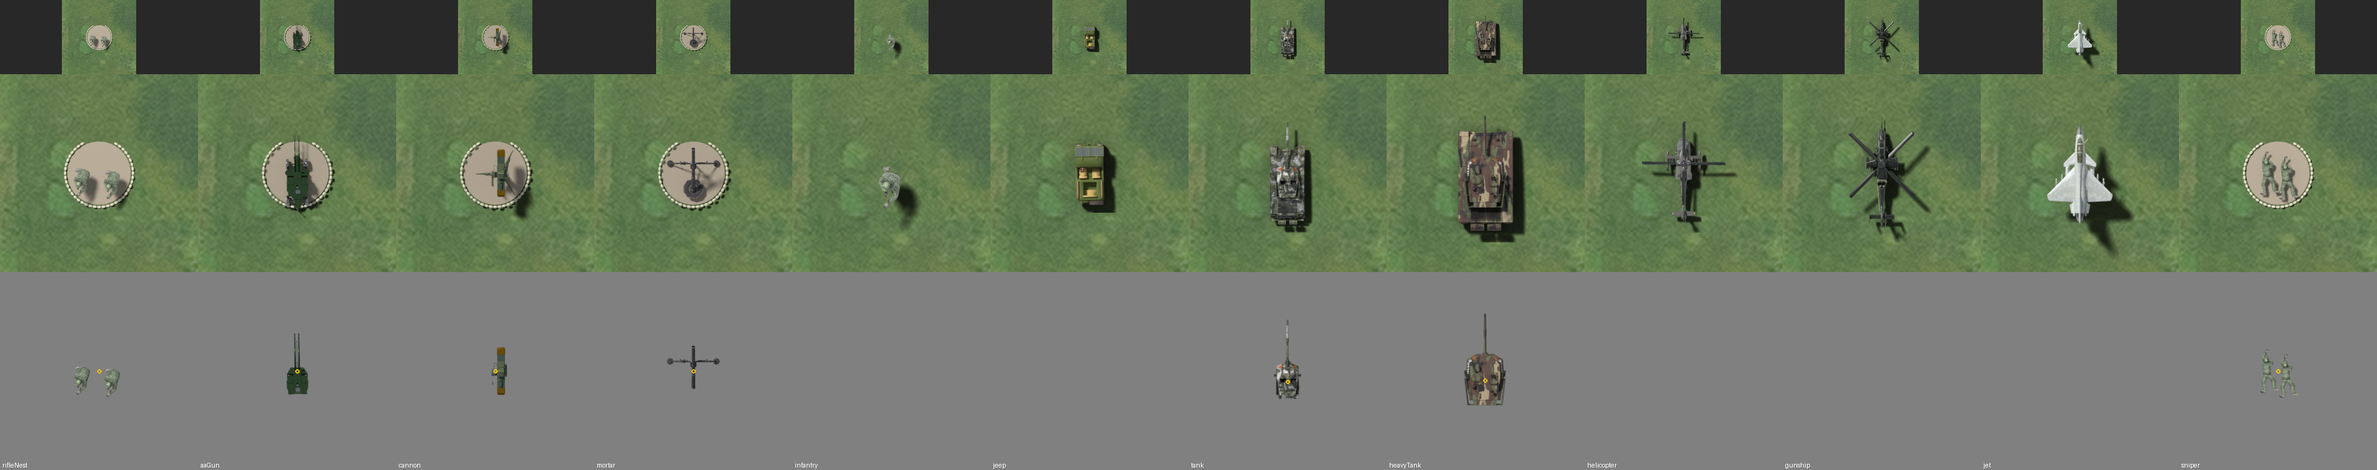
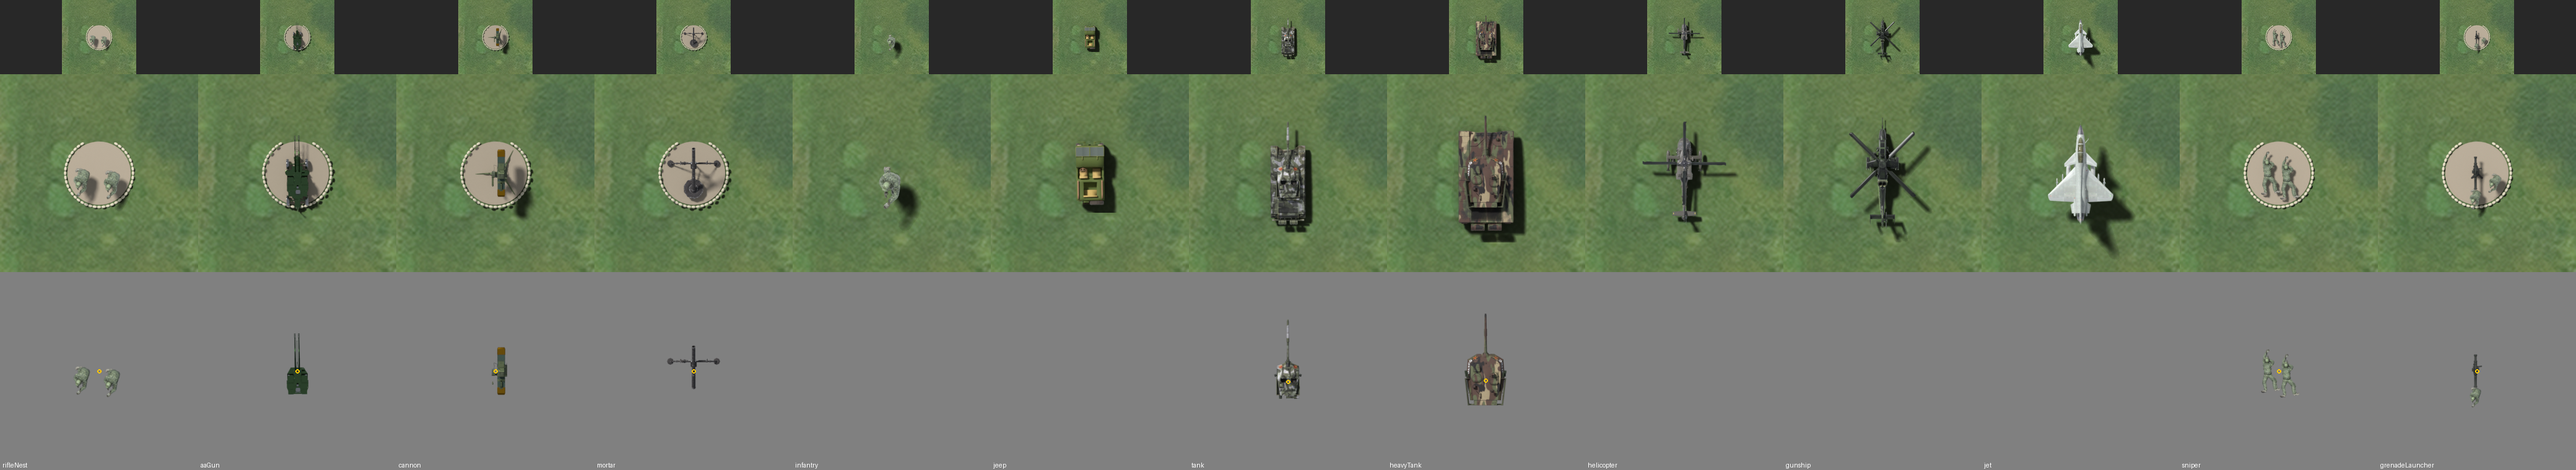
feat: China Grenade launcher render (#468) (#529)
Closes #468

Stacked on the #467 PR (base `feat/467-grenade-launcher-russia`).

## What changed
- **China Grenade launcher render** (`china-grenade-launcher`, art-ahead for #359). It uses the QLZ-87 itself ("QLZ-87 (Type 87)" by goncalveskauan055l, CC-BY 4.0, license checked on its Sketchfab page 2026-11-11), so there's no stand-in for the launcher. The model has no mount, so it sits on the US render's stand-in tripod (GoldbergR, CC-BY). The crew is the China Rifle Nest's soldier in green (MissingTray1151, CC-BY): the gunner on the turret layer with the launcher, the assistant on the hull. They're in the sandbagged pit (base radius 0.4, canvas 1.25 tiles, ADR-0009 point 2).
- **New `opaque` key in `scripts/render-sprite.py`.** This Sketchfab export has alpha 0 on every material (the author notes a "bugged 3d view"), so it rendered see-through. `opaque: true` sets alpha to 1 on that model's (or part's) materials. The launcher is then painted flat dark grey with low specular through `tint.overrides` (`flat`). No other model uses the key, so no existing render changes.
- **Turntable**: `china-grenade-launcher-turntable.webp`, 274 KB, within the 300 KB budget, for the Field manual.
[…]

diff --git a/src/data/renders.test.ts b/src/data/renders.test.ts
@@ -4,6 +4,7 @@ import { describe, expect, it } from 'vitest';
 import { RENDERS, RENDER_FACING, renderFor } from './renders';
 import { FACTIONS } from '../sim/factions';
 import { SPRITES, type SpriteKind } from './sprites';
+import { TURNTABLE_BUDGET_BYTES } from './turntables';
 
 describe('RENDERS', () => {
   it('has the spike’s two renders: the China AA Gun and the Russia Tank', () => {
@@ -94,8 +95,8 @@ describe('the committed Sniper renders (art-ahead: not in RENDERS until #364 put
 });
 
 describe('the committed Grenade launcher renders (art-ahead: not in RENDERS until #359 puts it in play)', () => {
-  // The Factions whose Grenade launcher is rendered so far: US (#464), Russia (#467). Later parts of #359 add theirs.
-  for (const faction of ['us', 'russia']) {
+  // The Factions whose Grenade launcher is rendered so far: US (#464), Russia (#467), China (#468). The last part of #359 adds its own.
+  for (const faction of ['us', 'russia', 'china']) {
     const id = `${faction}-grenade-launcher`;
     const dir = `assets/render-${id}`;
 
@@ -118,6 +119,13 @@ describe('the committed Grenade launcher renders (art-ahead: not in RENDERS unti
         expect([png.width, png.height]).toEqual([160, 160]);
       });
     }
+
+    it(`${id} has a turntable for the Field manual, within the 300 KB budget`, () => {
+      const path = `${dir}/${id}-turntable.webp`;
+      expect(existsSync(path), path).toBe(true);
+      expect(readFileSync(path).length).toBeLessThanOrEqual(TURNTABLE_BUDGET_BYTES);
+      expect(JSON.parse(readFileSync(`${dir}/${id}-turntable.json`, 'utf8'))).toMatchObject({ id, frames: 24 });
+    });
 
     it(`keeps ${id} out of RENDERS until it is in play`, () => {
       expect(Object.values(RENDERS).map((r) => r.id)).not.toContain(id);

diff --git a/scripts/render-sprite.py b/scripts/render-sprite.py
@@ -44,6 +44,8 @@ on a palette texture.
 (sky occlusion), so a sprite has no baked haze and its frame can be cropped to the figure. It applies to every model:
 only the soldier sets were re-rendered for #342, so re-rendering a vehicle or tower changes its alpha the same way.
 
+`opaque` (true) sets every material of a model to alpha 1, for one exported fully transparent (alpha 0).
+
 `turnDeg` turns a model clockwise after `frontAxis`, for one set down at an angle (not along an axis).
 
 `liftTiles` raises the placed model that far above the ground, so its shadow falls off to the south-east, away from
@@ -58,7 +60,7 @@ of `radiusTiles` ringed by sandbags, open at the front when `gapDeg` is set, so 
 `parts` (issue #464) builds one sprite from several models, e.g. a launcher with no mount, a tripod and a crew: each
 entry is another Sketchfab model (`sketchfab`, `author`, `license`, credited like the main one) imported into the same
 scene and placed on its own, with the same `frontAxis`, `turnDeg`, `lengthTiles`, `liftTiles`, `exclude`, `tint`,
-`untexturedColor`, `pose` and `copies` keys (copies also take `z`). A part with `"turret": true` goes on the turret
+`untexturedColor`, `opaque`, `pose` and `copies` keys (copies also take `z`). A part with `"turret": true` goes on the turret
 layer (the gunner), the others on the hull. `liftTiles` stands a model (main or part) that many tiles up, e.g. a
 launcher on its tripod's head.
 
@@ -147,6 +149,15 @@ def tint_untextured(color: list[float], mats=None) -> None:
         bsdf = mat.node_tree.nodes.get("Principled BSDF") if mat.node_tree else None
         if bsdf and not bsdf.inputs["Base Color"].links:
             bsdf.inputs["Base Color"].default_value = (*color, 1.0)
+
+
+def make_opaque(mats=None) -> None:
+    """Set every material's alpha to 1, for a model exported with alpha 0 (it renders see-through, as on its
+    Sketchfab page)."""
+    for mat in bpy.data.materials if mats is None else mats:
+        bsdf = mat.node_tree.nodes.get("Principled BSDF") if mat.node_tree else None
+        if bsdf and not bsdf.inputs["Alpha"].links:
+            bsdf.inputs["Alpha"].default_value = 1.0
 
 
 def tint_paint(color: list[float], skip: list[str], overrides: dict[str, dict], mats=None) -> None:
@@ -374,6 +385,8 @@ def add_part(part: dict, cache: Path) -> list:
         tint_paint(t["color"], t.get("skip", []), t.get("overrides", {}), mats)
     if "untexturedColor" in part:
         tint_untextured(part["untexturedColor"], mats)
+    if part.get("opaque"):
+        make_opaque(mats)
     if "pose" in part:
         apply_pose(part["pose"], objs, actions)
     place_model(part, objs)
@@ -522,6 +535,8 @@ def prepare_model(spec: dict, cache: Path) -> tuple[list, list, list]:
         tint_paint(spec["tint"]["color"], spec["tint"].get("skip", []), spec["tint"].get("overrides", {}))
     if "untexturedColor" in spec:
         tint_untextured(spec["untexturedColor"])
+    if spec.get("opaque"):
+        make_opaque()
     if "pose" in spec:
         apply_pose(spec["pose"])
     place_model(spec)

diff --git a/CREDITS.md b/CREDITS.md
@@ -169,9 +169,9 @@ Third-party assets in this game. Generated from `assets/manifest.json` by `npm r
 - Author: GoldbergR
 - Source: <https://sketchfab.com/3d-models/2a5ecc14900440af8fe2b5b30dabbef0>
 - License: CC-BY-4.0
-- Attribution: "Machine Gun Tripod 1 (Low-Poly)" by GoldbergR (sketchfab.com), CC-BY 4.0, rendered top-down under the Grenade launcher (a stand-in for the M3 tripod)
+- Attribution: "Machine Gun Tripod 1 (Low-Poly)" by GoldbergR (sketchfab.com), CC-BY 4.0, rendered top-down under the Grenade launcher (US: a stand-in for the M3 tripod; China: for the QLZ-87's own heavy mount), and in those renders' turntables (24 views from 30 degrees up) for the Field manual
 - Downloaded: 2026-11-11
-- Files: `assets/render-us-grenade-launcher/**`
+- Files: `assets/render-us-grenade-launcher/**`, `assets/render-china-grenade-launcher/**`
 
 ## Low Poly Humvee FREE (top-down render and turntable)
 
@@ -295,9 +295,9 @@ Third-party assets in this game. Generated from `assets/manifest.json` by `npm r
 - Author: MissingTray1151
 - Source: <https://sketchfab.com/3d-models/2bfce585144d4403a3ddf76a0e65767a>
 - License: CC-BY-4.0
-- Attribution: "Tactical Soldier (game ready) low poly" by MissingTray1151 (sketchfab.com), CC-BY 4.0, rendered top-down, posed crouching and aiming (its crouch_firing animation), kit tinted green (toward Type 07), two copies set in a sandbagged pit of our own, plus a turntable of the whole model (24 views from 30 degrees up) for the Field manual
+- Attribution: "Tactical Soldier (game ready) low poly" by MissingTray1151 (sketchfab.com), CC-BY 4.0, rendered top-down, posed crouching and aiming (its crouch_firing animation), kit tinted green (toward Type 07), two copies set in a sandbagged pit of our own, plus a turntable of the whole model (24 views from 30 degrees up) for the Field manual; also the Grenade launcher's gunner and assistant gunner, crouched beside it, also in its turntable
 - Downloaded: 2026-11-02
-- Files: `assets/render-china-rifle-nest/**`
+- Files: `assets/render-china-rifle-nest/**`, `assets/render-china-grenade-launcher/**`
 
 ## Tactical Soldier (game ready) low poly (top-down render and turntable)
 
@@ -325,6 +325,15 @@ Third-party assets in this game. Generated from `assets/manifest.json` by `npm r
 - Attribution: "Pindad Mortars" by sakigakefuruzawa (sketchfab.com), CC-BY 4.0, rendered top-down, the 81 mm MO-3 alone (the two 60 mm mortars removed), set in a sandbagged pit of our own, tube and bipod split from the baseplate, plus a turntable of the whole model (24 views from 30 degrees up) for the Field manual
 - Downloaded: 2026-11-02
 - Files: `assets/render-china-mortar/**`
+
+## QLZ-87 (Type 87) (top-down render and turntable)
+
+- Author: goncalveskauan055l
+- Source: <https://sketchfab.com/3d-models/56a2e9531c5a432f8e833bfd62c6a7ea>
+- License: CC-BY-4.0
+- Attribution: "QLZ-87 (Type 87)" by goncalveskauan055l (sketchfab.com), CC-BY 4.0, rendered top-down on a tripod with a crew, in a sandbagged pit of our own, its see-through export made opaque and painted dark grey, plus a turntable of the whole scene (24 views from 30 degrees up) for the Field manual
+- Downloaded: 2026-11-11
+- Files: `assets/render-china-grenade-launcher/**`
 
 ## Tactical Soldier (game ready) low poly (top-down render and turntable)
 

diff --git a/docs/assets.md b/docs/assets.md
@@ -236,6 +236,7 @@ Don't use plain `python3` (3.13 in the cloud image, where pip offers only `bpy` 
 | `render-china-sniper/` | "Tactical Soldier (game ready) low poly" by MissingTray1151, CC-BY-4.0 | `scripts/render-sprite.py` |
 | `render-china-cannon/` | "Anti-Tank Guided Missile" by Alhimix, CC-BY-4.0 | `scripts/render-sprite.py` |
 | `render-china-mortar/` | "Pindad Mortars" by sakigakefuruzawa, CC-BY-4.0 | `scripts/render-sprite.py` |
+| `render-china-grenade-launcher/` | "QLZ-87 (Type 87)" by goncalveskauan055l, "Machine Gun Tripod 1 (Low-Poly)" by GoldbergR, "Tactical Soldier (game ready) low poly" by MissingTray1151, all CC-BY-4.0 | `scripts/render-sprite.py` (`parts`) |
 | `render-china-infantry/` | "Tactical Soldier (game ready) low poly" by MissingTray1151, CC-BY-4.0 | `scripts/render-sprite.py` |
 | `render-china-jeep/` | "Military Jeep Low Poly – Game Ready 3D Vehicle" by KidBi-Gaming, CC-BY-4.0 | `scripts/render-sprite.py` |
 | `render-china-tank/` | "Type 99 MBT" by philano, CC-BY-4.0 | `scripts/render-sprite.py` |

diff --git a/docs/adr/0009-satellite-milsim-art-and-factions.md b/docs/adr/0009-satellite-milsim-art-and-factions.md
@@ -51,6 +51,8 @@ Updated 2026-11-11 (#464): the Grenade launcher row. Its renders come one Factio
 
 Updated 2026-11-11 (#467): the Russia Grenade launcher is an AGS-40 Balkan on its own tripod, a stand-in for the AGS-30 (no free model of it), with the Russia Rifle Nest's soldier as gunner and assistant.
 
+Updated 2026-11-11 (#468): the China Grenade launcher is the QLZ-87 itself, on the US render's stand-in tripod (the model has no mount), with the China Rifle Nest's soldier as gunner and assistant.
+
 Picks match the stats: the Jeep has no armor (so no armored Humvee or Tigr), the Helicopter has light armor (a transport, not an Apache or Hind), and the AA Gun is a fast-firing gun that also hits ground targets.
 
 ## Consequences
